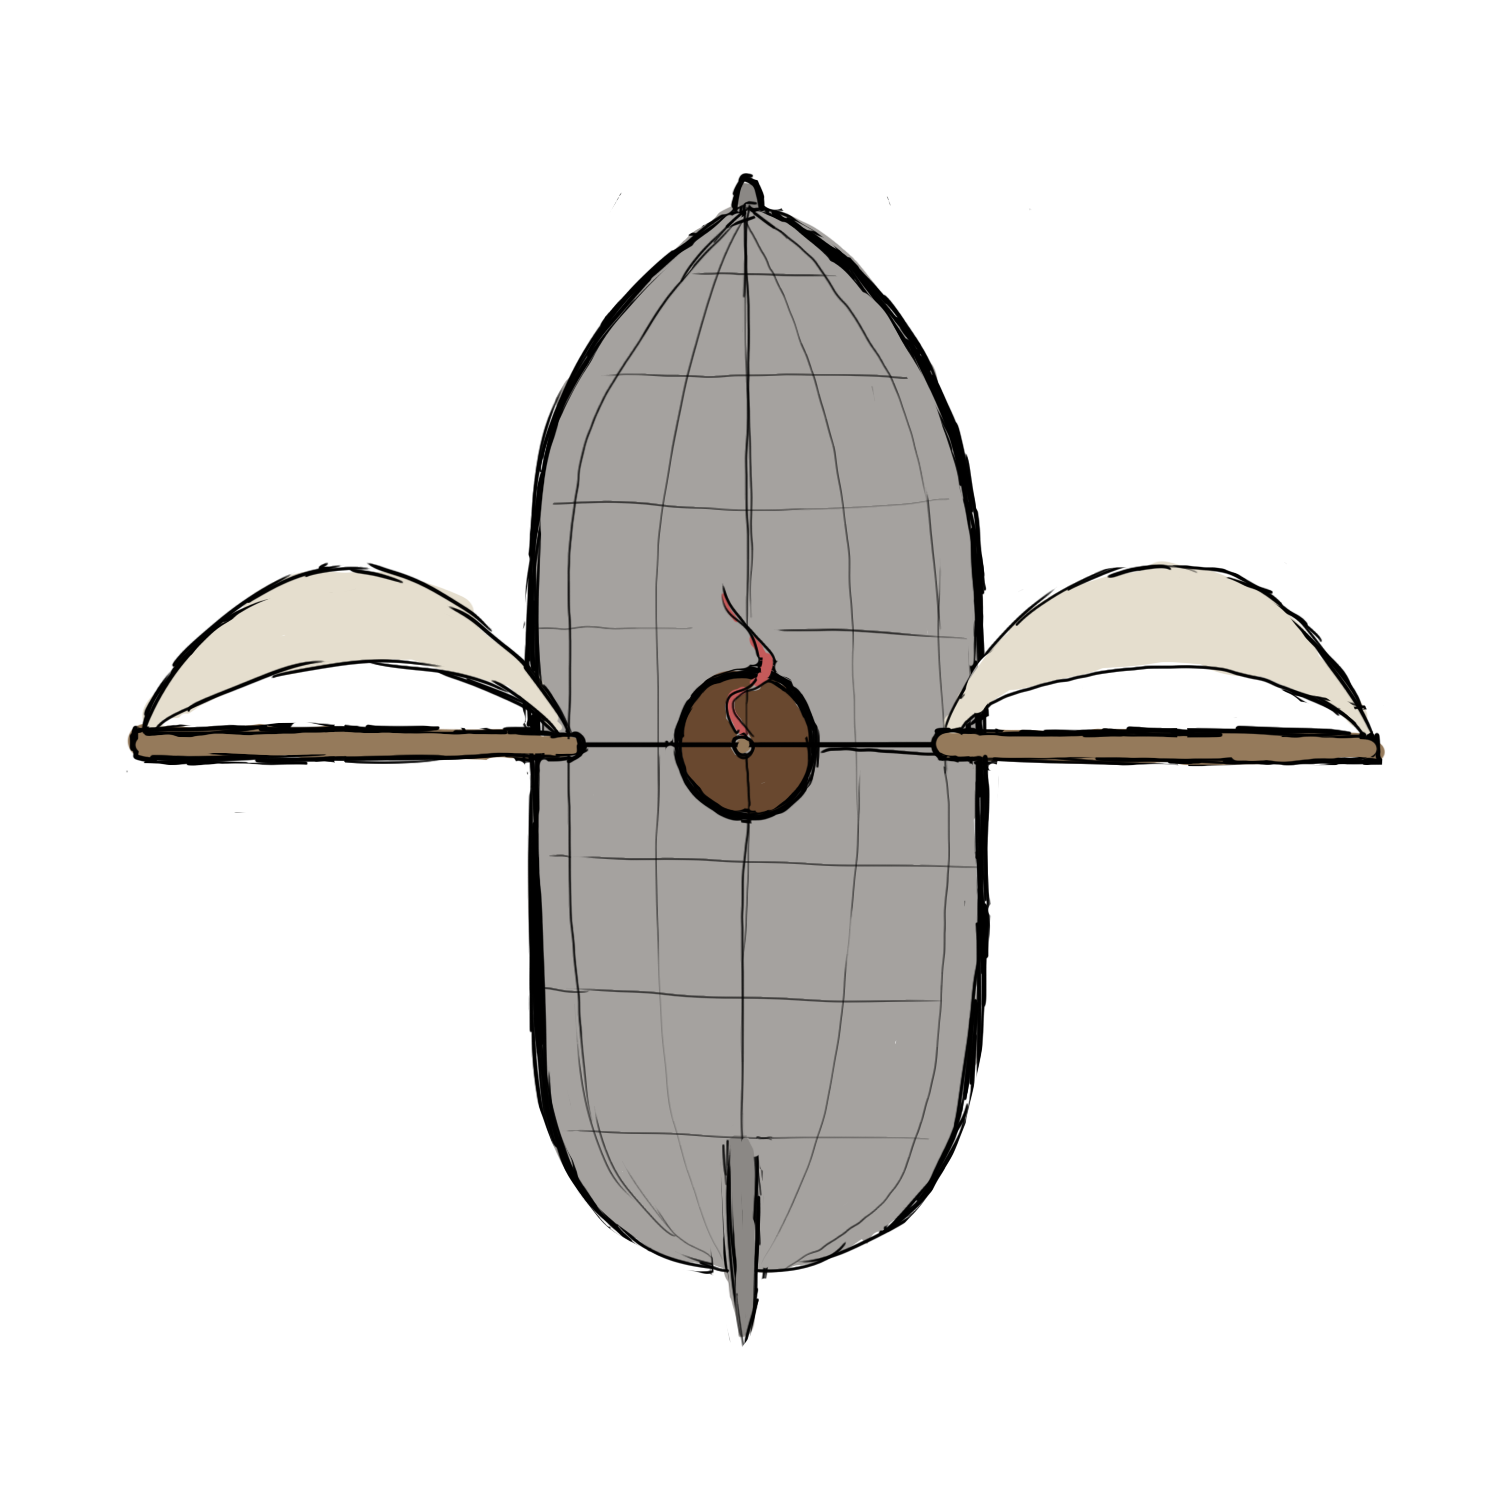
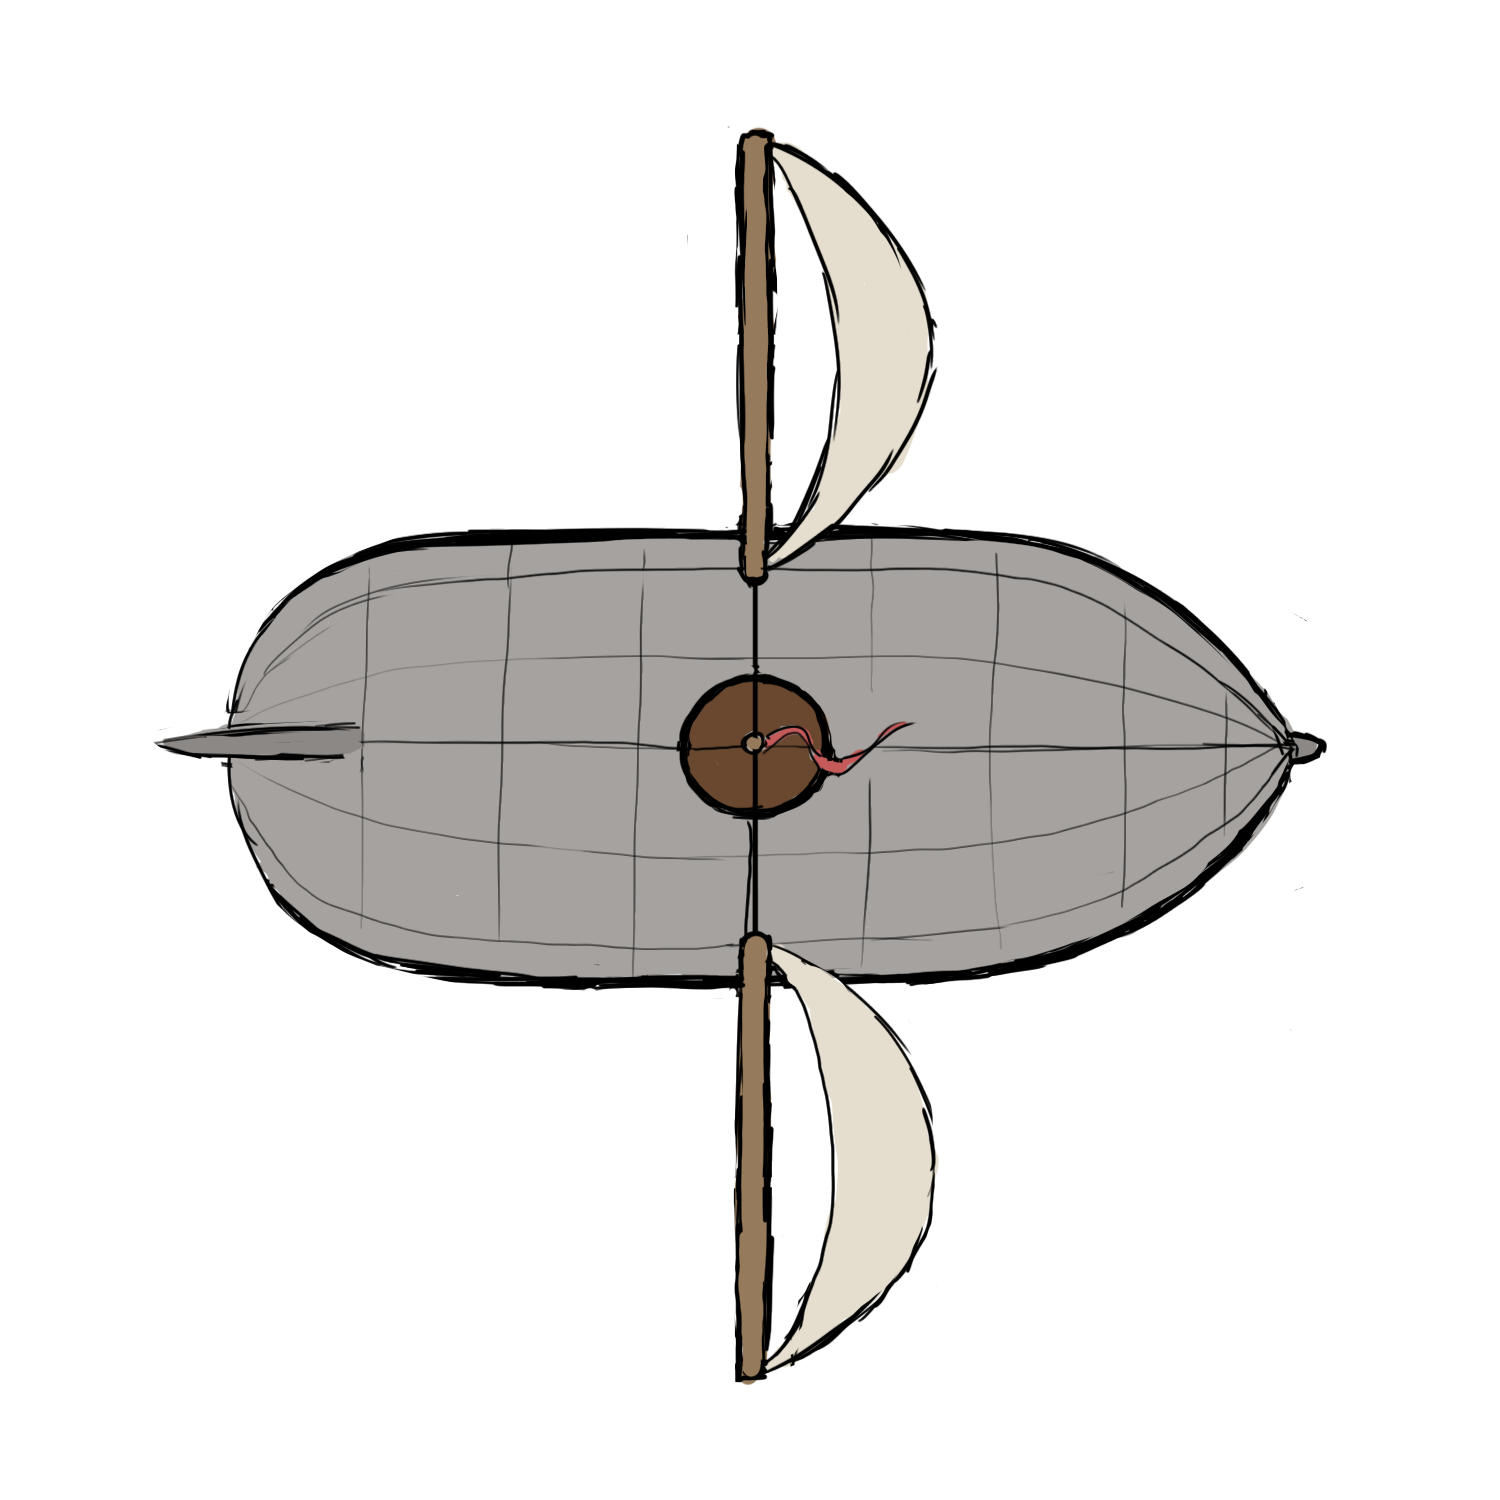
Coding lmao

Changed region(s): [[0.092, 0.0613, 0.92, 0.92]]

diff --git a/cogs/Map/maps.py b/cogs/Map/maps.py
@@ -4,13 +4,22 @@ from typing import Tuple
 
 import discord
 
-from aircraft.visuals import ActiveImage
+from aircraft_rendering.visuals import ActiveImage
+
+
+def top_aircraft_handler():
+    pass
+
+
+def side_aircraft_handler():
+    pass
 
 
 class Maps:
     def __init__(self, message_id, **kwargs):
         self.message_id = message_id
-        self.canvases = [Canvas(f"./db/images/airship_bg_{x}.png", **kwargs) for x in range(2)]
+        self.canvases = [Canvas(f"./db/images/airship_bg_{x}.png", function, **kwargs)
+                         for x, function in enumerate([top_aircraft_handler, side_aircraft_handler])]
         self.aircrafts = None  # List[Aircraft]
 
     def save(self):
@@ -23,21 +32,27 @@ class Maps:
         files = []
         for x in range(2):
             image_binary = BytesIO()
-            self.canvases[x].render().save(image_binary, 'PNG')
+            self.canvases[x].render(self.aircrafts).save(image_binary, 'PNG')
             image_binary.seek(0)
             files.append(discord.File(fp=image_binary, filename=f'map{x}.png'))
         return files
 
 
 class Canvas:
-    def __init__(self, path: str, pxl_per_ft: int = 5, camera_coords: Tuple[int] = (0, 0), angle_from_north: int = 0):
+    def __init__(self, path: str, get_aircraft_coords, pxl_per_ft: float = 5, camera_coords: Tuple[float] = (0, 0),
+                 angle_from_north: float = 0):
+        print(get_aircraft_coords)
         self.background = ActiveImage(path)
+        self.get_aircraft_coords = get_aircraft_coords
         self.pxl_per_ft = pxl_per_ft
         self.camera_coords = camera_coords
         self.angle_from_north = angle_from_north
 
-    def render(self):
+    def render(self, airships):
         return self.background.image()
+
+    def draw_component(self, image: ActiveImage, height: float, coords: Tuple[float] = (0, 0), rotation: float = 0):
+        pass
 
     def draw_arrow(self, start: tuple, end: tuple, rgb: tuple):
         pass

diff --git a/aircraft_rendering/physics.py b/aircraft_rendering/physics.py
@@ -49,7 +49,7 @@ class TransformRB:
         self.mass = mass
         self.drag_profiles = drag_profiles
         self.position = position
-        self.rotation = rotation  # Roll, Pitch, Yaw
+        self.rotation = rotation  # Roll, Pitch, Yaw    Roll, Yaw, Pitch
         self.gravity = gravity
         self.position_d = position_d
 
@@ -64,22 +64,9 @@ class TransformRB:
             a = Vector(force).add(Vector(relative_force).rotate(self.rotation)).add(a_drag.negate())
             self.position.add(Vector(a).multiply(0.5 * (interval ** 2))).add(Vector(self.position_d).multiply(interval))
             self.position_d.add(Vector(a).multiply(interval))
+            print(self.rotation.comps)
 
-# class Aircraft:
-#     def __init__(self, length: int, top: Image.Image, side: Image.Image, transform_rb=TransformRB()):
-#         self.length = length
-#         self.top = top
-#         self.side = side
-#         self.transform_rb = transform_rb
-#
-#     def draw_on(self, canvas: Canvas):
-#         img = self.top if canvas.is_top else self.side
-#         ship_length = self.length * canvas.ppf
-#         new_dimensions = (int(img.width * ship_length / img.height if canvas.is_top else ship_length),
-#                           int(ship_length if canvas.is_top else img.height * ship_length / img.width))
-#         img = img.resize(new_dimensions, Image.Resampling.BICUBIC)
-#         img = img.rotate((-1 if canvas.is_top else 1)*self.transform_rb.rotation.comps[2 if canvas.is_top else 1], Image.Resampling.BICUBIC,
-#                          expand=True)
-#         canvas.paste(im=img, box=[int(x) for x in numpy.add((-img.width / 2, img.height / 2), numpy.multiply(
-#             self.transform_rb.coords()[:None if canvas.is_top else 0:2 if canvas.is_top else -1],
-#             canvas.ppf))], mask=img)
+
+if __name__ == '__main__':
+    v = Vector((0, 1, 0))
+    print(Vector(v).rotate(Vector((33, 45, 22))).comps)

diff --git a/aircraft_rendering/aircraft.py b/aircraft_rendering/aircraft.py
@@ -1,0 +1,47 @@
+from PIL import Image
+
+from physics import TransformRB
+from visuals import ActiveImage
+
+
+class Aircraft:
+    def __init__(self):
+        self.transform_rb = TransformRB()
+        self.top_image = ActiveImage("./db/images/airship_top.png")
+        self.side_image = ActiveImage("./db/images/airship_side.png")
+
+
+class PropABC:
+    def __init__(self):
+        self.percent = 0
+
+
+class Thruster(PropABC):
+    def __init__(self, vector):
+        super().__init__()
+        self.vector = vector
+
+
+class Rotator(PropABC):
+    def __init__(self, vector):
+        super().__init__()
+        self.vector = vector
+
+class Aircraft:
+    def __init__(self, length: int, top: Image.Image, side: Image.Image, transform_rb=TransformRB()):
+        self.length = length
+        self.top = top
+        self.side = side
+        self.transform_rb = transform_rb
+
+    def draw_on(self, canvas: Canvas):
+        img = self.top if canvas.is_top else self.side
+        ship_length = self.length * canvas.ppf
+        new_dimensions = (int(img.width * ship_length / img.height if canvas.is_top else ship_length),
+                          int(ship_length if canvas.is_top else img.height * ship_length / img.width))
+        img = img.resize(new_dimensions, Image.Resampling.BICUBIC)
+        img = img.rotate((-1 if canvas.is_top else 1)*self.transform_rb.rotation.comps[2 if canvas.is_top else 1], Image.Resampling.BICUBIC,
+                         expand=True)
+        canvas.paste(im=img, box=[int(x) for x in numpy.add((-img.width / 2, img.height / 2), numpy.multiply(
+            self.transform_rb.coords()[:None if canvas.is_top else 0:2 if canvas.is_top else -1],
+            canvas.ppf))], mask=img)

diff --git a/cogs/Map/menus.py b/cogs/Map/menus.py
@@ -3,13 +3,15 @@ import pickle
 import discord
 
 
-def open_maps(message_id):
-    with open(f'./db/maps/map_{message_id}.pckl', 'rb') as f:
+def open_maps(interaction):
+    with open(f'./db/maps/map_{interaction.message.id}.pckl', 'rb') as f:
         return pickle.load(f)
 
 
-async def update_map(interaction: discord.Interaction):
-    await interaction.response.edit_message(attachments=open_maps(interaction.message.id).render_files())
+async def update_map(interaction: discord.Interaction, maps=None):
+    if maps is None:
+        maps = open_maps(interaction)
+    await interaction.response.edit_message(attachments=maps.render_files())
 
 
 class MainMenu(discord.ui.View):
@@ -19,3 +21,9 @@ class MainMenu(discord.ui.View):
     @discord.ui.button(label="Reload", style=discord.ButtonStyle.grey)
     async def reload_button(self, interaction: discord.Interaction, button: discord.ui.Button):
         await update_map(interaction)
+
+    @discord.ui.button(label="Test", style=discord.ButtonStyle.grey)
+    async def test_button(self, interaction: discord.Interaction, button: discord.ui.Button):
+        maps = open_maps(interaction)
+        print(maps.canvases[0].get_aircraft_coords)
+        await update_map(interaction, maps)
